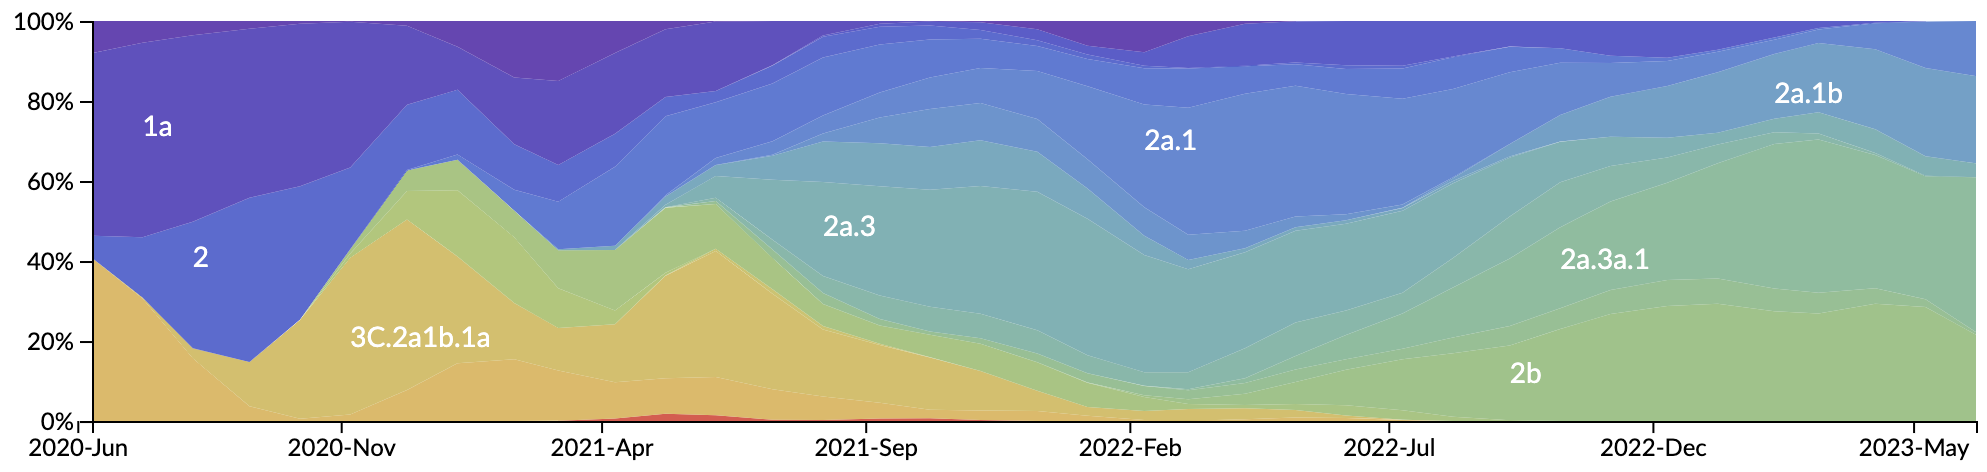
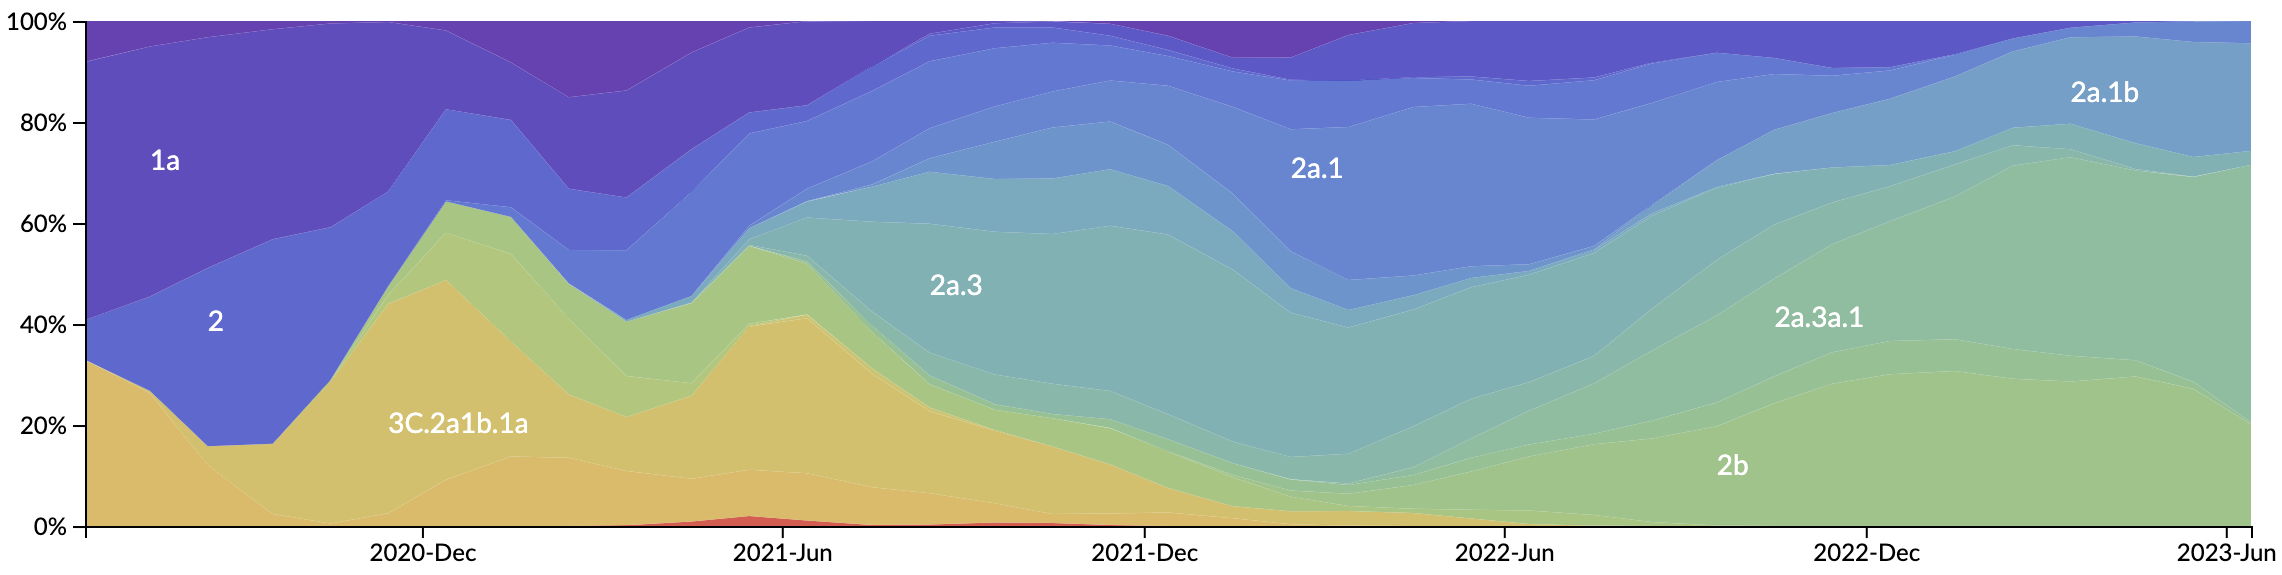
Update ASV talk

diff --git a/talks/_posts/2023-06-24-sars-cov-2-evolutionary-dynamics-asv.html b/talks/_posts/2023-06-24-sars-cov-2-evolutionary-dynamics-asv.html
@@ -88,29 +88,26 @@ Outline
 	</div>
 </section>
 
-<!-- Update with latest data -->
 <section>
 	<h3>But this immunity is now driving evolution of the virus</h3>
-	<img class="stretch" data-src="/images/talks/ncov_variants_tree_unrooted_2023_05_15.png">
+	<img class="stretch" data-src="/images/talks/ncov_variants_tree_unrooted_2023_06_18.png">
 	<div class="citation">
-		<a href="https://nextstrain.org/ncov/gisaid/global/all-time/2023-05-15?l=unrooted">nextstrain.org</a>
+		<a href="https://nextstrain.org/ncov/gisaid/global/all-time/2023-06-18?l=unrooted">nextstrain.org</a>
 	</div>
 </section>
 
-<!-- Update with latest data -->
 <section>
 	<h3>In which new variants emerge that escape from existing population immunity and spread rapidly</h3>
-	<img class="stretch" data-src="/images/talks/ncov_frequencies_2023_05_15.png">
+	<img class="stretch" data-src="/images/talks/ncov_frequencies_2023_06_18.png">
 	<div class="citation">
-		<a href="https://nextstrain.org/ncov/gisaid/global/all-time/2023-05-15">nextstrain.org</a>
+		<a href="https://nextstrain.org/ncov/gisaid/global/all-time/2023-06-18">nextstrain.org</a>
 	</div>
 </section>
 
-<!-- Update with latest data -->
 <section>
 	<h3>Novel variants sweep globally in months rather than years</h3>
 	<div class="left" style="float:left; width:20%; margin-top: 15px;">SARS-CoV-2</div>
-	<img width="80%" data-src="/images/talks/ncov_frequencies_2023_05_15.png">
+	<img width="80%" data-src="/images/talks/ncov_frequencies_2023_06_18.png">
 	<div class="left" style="float:left; width:20%; margin-top: 15px;">Influenza H3N2</div>
 	<img width="80%" data-src="/images/talks/flu_h3n2_frequencies_2023_06_15.png">
 	<div class="citation">
@@ -118,13 +115,11 @@ Outline
 	</div>
 </section>
 
-<!-- Update with latest data -->
-<!-- Construct figure with Greek letter labels -->
 <section>
-	<h3>We really should be at something like Omega at this point</h3>
-	<img class="stretch" data-src="/images/talks/ncov_frequencies_2023_05_15.png">
+	<h3>We really should be at something like Psi at this point</h3>
+	<img class="stretch" data-src="/images/talks/ncov_frequencies_greek_letters_2023_06_18.png">
 	<div class="citation">
-		<a href="https://nextstrain.org/ncov/gisaid/global/all-time/2023-05-15">nextstrain.org</a>
+		<a href="https://nextstrain.org/ncov/gisaid/global/all-time/2023-06-18">nextstrain.org</a>
 	</div>
 </section>
 
@@ -282,13 +277,12 @@ Outline
 	<img class="stretch" src="/images/talks/sarscov2_variant_mlr_growth_advantages_2023_06_17.png">
 </section>
 
-<!-- Update figure with latest data to fix Alpha outlier -->
 <section>
 	<h3>Population turnover driven by emergence of high fitness variants that displace existing diversity</h3>
-	<img class="stretch" data-src="/images/talks/ncov_variants_mutational_fitness_2023_06_12.png">
+	<img class="stretch" data-src="/images/talks/ncov_variants_mutational_fitness_2023_06_18.png">
 	<div class="citation">
 		Model from <a href="https://www.science.org/doi/10.1126/science.abm1208">Obermeyer et al. 2022. Science.</a>
-		Figure from <a href="https://nextstrain.org/ncov/gisaid/global/all-time/2023-06-12?l=scatter&scatterY=mutational_fitness">nextstrain.org</a>
+		Figure from <a href="https://nextstrain.org/ncov/gisaid/global/all-time/2023-06-18?l=scatter&scatterY=mutational_fitness">nextstrain.org</a>
 	</div>
 </section>
 
